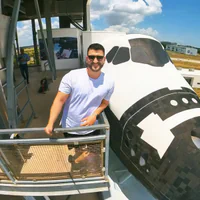
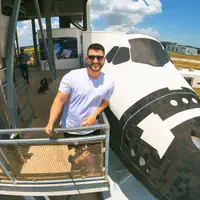
perf: optimize profile image compression quality

diff --git a/scripts/mobile-image-optimization.js b/scripts/mobile-image-optimization.js
@@ -39,7 +39,7 @@ const IMAGE_CONFIGS = {
       { width: 120, height: 120, suffix: 'base', quality: 80 },   // Common display size (PageSpeed optimization)
       { width: 128, height: 128, suffix: 'md', quality: 85 },     // Tablet (768px)
       { width: 160, height: 160, suffix: 'lg', quality: 90 },     // Desktop (1024px)
-      { width: 200, height: 200, suffix: 'xl', quality: 85 },     // Large desktop (lower quality for compression)
+      { width: 200, height: 200, suffix: 'xl', quality: 75 },     // Large desktop (optimized compression per PageSpeed)
       { width: 48, height: 48, suffix: 'thumbnail', quality: 75 }, // PDF/thumbnails
     ],
     formats: ['avif', 'webp', 'jpeg'], // Modern formats first for best compression
